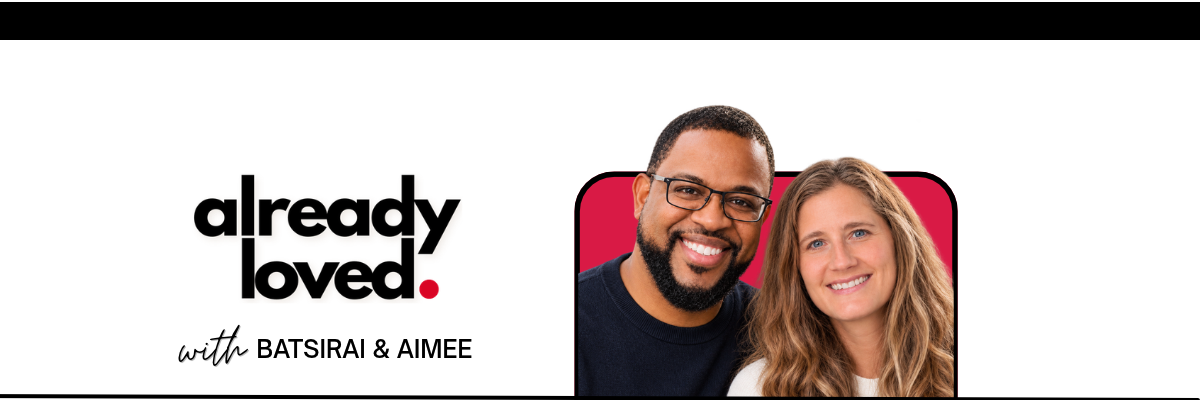
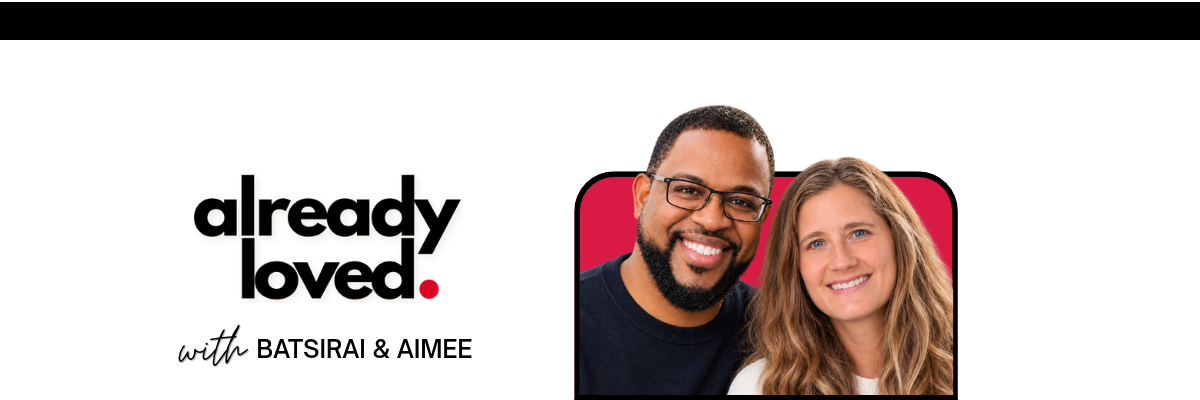
Header 4 above the card with space before the white card

Changed region(s): [[0.0, 0.96, 0.4933, 1.0], [0.6167, 0.99, 1.0, 1.0]]

diff --git a/src/lib/emailLayout.ts b/src/lib/emailLayout.ts
@@ -4,8 +4,8 @@ import { escapeHtml } from "./markdown";
 export { BRAND };
 
 /**
- * The frame every email goes out in: the AlreadyLoved header at the top of a white card on a
- * cream page, the message below it, then the footer. Tables and inline styles, so Gmail and Outlook
+ * The frame every email goes out in: the AlreadyLoved header on a cream page, the message on a
+ * white card below it, then the footer. Tables and inline styles, so Gmail and Outlook
  * keep it.
  */
 export function emailLayout(p: { title: string; inner: string; footer: string; preview?: string }): string {
@@ -16,11 +16,8 @@ export function emailLayout(p: { title: string; inner: string; footer: string; p
 ${p.preview ? `<div style="display:none;max-height:0;overflow:hidden;mso-hide:all">${escapeHtml(p.preview)}</div>` : ""}
 <table role="presentation" width="100%" cellpadding="0" cellspacing="0" border="0" style="background-color:${b.page}"><tr><td align="center" style="padding:28px 12px">
 <table role="presentation" width="100%" cellpadding="0" cellspacing="0" border="0" style="max-width:600px">
-<tr><td style="background-color:${b.card};border:1px solid ${b.border};border-radius:12px;overflow:hidden">
-<table role="presentation" width="100%" cellpadding="0" cellspacing="0" border="0">
-<tr><td align="center" style="padding:0;background-color:${b.card};border-radius:12px 12px 0 0"><a href="${b.siteUrl}" style="text-decoration:none"><img src="${b.headerUrl}" alt="${escapeHtml(b.headerAlt)}" width="600" style="display:block;width:100%;max-width:600px;height:auto;border:0;border-radius:12px 12px 0 0"></a></td></tr>
-<tr><td style="padding:28px 28px 32px;font-family:${b.body};color:${b.ink}">${p.inner}</td></tr>
-</table></td></tr>
+<tr><td align="center" style="padding:0 0 24px"><a href="${b.siteUrl}" style="text-decoration:none"><img src="${b.headerUrl}" alt="${escapeHtml(b.headerAlt)}" width="600" style="display:block;width:100%;max-width:600px;height:auto;border:0"></a></td></tr>
+<tr><td style="background-color:${b.card};border:1px solid ${b.border};border-radius:12px;padding:28px 28px 32px;font-family:${b.body};color:${b.ink}">${p.inner}</td></tr>
 <tr><td align="center" style="padding:20px 16px 0;font-family:${b.body};font-size:12px;line-height:1.6;color:${b.muted}">${p.footer}</td></tr>
 </table></td></tr></table></body></html>`;
 }
